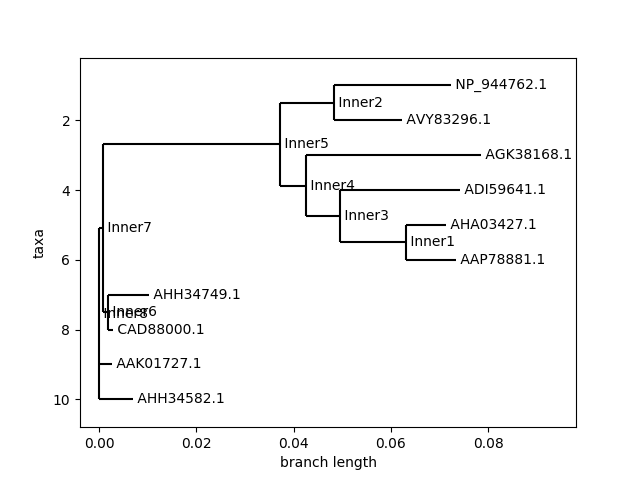
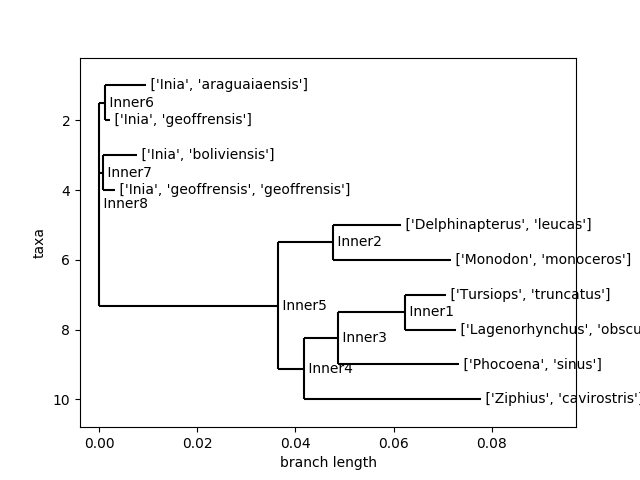
del trash 3

diff --git a/bioFunc.py b/bioFunc.py
@@ -2,12 +2,14 @@ from Bio.Seq import Seq
 from Bio import SeqIO#for tree
 from Bio import AlignIO
 from Bio.Align.Applications import MuscleCommandline
+from Bio.Align.Applications import ClustalwCommandline
 from Bio.Phylo.TreeConstruction import DistanceCalculator
 from Bio.Phylo.TreeConstruction import DistanceTreeConstructor
 import matplotlib
 matplotlib.use('Agg')
 from Bio import Phylo
 import pylab
+from os import path
 
 spec_list = ["IniaGeoffrensis","VicugnaVicugna","ToromysRhipidurus","OreotrochilusMelanogaster"]
 
@@ -56,19 +58,42 @@ def importar_homologos_P(spc_id,acc_key):
 		out_description.append(r.description)
 	return list(zip(out_accession,out_description))
 
-def generar_arbol(file, especie, indice):
-	path = './static/seq/Homologos/'
-	fasta_file = path + especie + '.fasta'
-	cli = MuscleCommandline(input=fasta_file,format=)
-	aln_file = path + especie + '.aln'
-	with open(aln_file, "r") as aln:
-		alineamiento = AlignIO.read(aln, "clustal")
+def generar_arbol(especie, indice):
+	tree_path = './static/img/bio/'+ especie + indice +'.png'
 
-	calculator = DistanceCalculator('blosum62')
-	dm = calculator.get_distance(alineamiento)
+	if not path.exists(tree_path):
+		seq_path = './static/seq/Homologos/'
+		fasta_file = seq_path + especie + str(indice) + '.fasta'
+		aln_file = seq_path + especie + str(indice) + '.aln'
 
-	constructor = DistanceTreeConstructor(calculator)
-	nj = constructor.nj(dm)	# Neighbor Joining
-	Phylo.draw(nj)
-	path = './static/img/bio/'+especie+ indice +'.png'
-	pylab.savefig(path, format='png')
+		# Ejecuta MUSCLE para el alineamiento de secuencias homologas
+		cli = MuscleCommandline(input=fasta_file, out=aln_file, clw=True)
+		#cli = ClustalwCommandline(infile=fasta_file,outfile=aln_file)
+		cli()
+
+		with open(aln_file, "r") as aln:
+			alineamiento = AlignIO.read(aln, "clustal")
+		
+		# Blosum62 para proteinas
+		calculator = DistanceCalculator('blosum62')
+		dm = calculator.get_distance(alineamiento)
+
+		constructor = DistanceTreeConstructor(calculator)
+		# Neighbor Joining
+		nj = constructor.nj(dm)
+		
+		Phylo.draw(nj, label_func=get_label)
+		pylab.savefig(tree_path, format='png')
+
+def get_label(leaf):
+	if "Inner" in leaf.name:
+		return leaf.name
+	else:
+		from Bio import Entrez
+		Entrez.email = "victoralegre@uni.pe"
+		handle = Entrez.efetch(db="protein",id=leaf.name, rettype="gp",retmode="text")
+		result=handle.read().split('\n')
+		for line in result:
+			if "ORGANISM" in line:
+				return line.split()[1:]
+		return leaf.name

diff --git a/app_run.py b/app_run.py
@@ -47,10 +47,8 @@ def arbol():
 		flash('ID: %s' %(form_t.tree_list.data))
 		espc_indice = int(form_t.specie_list.data)
 		indice = form_t.tree_list.data
-		path_arbol_num = './static/seq/Homologos/'+bf.spec_list[espc_indice-1]+indice
-		comando = 'clustalw '+ path_arbol_num  + '.fasta'
-		os.system(comando)
-		bf.generar_arbol(path_arbol_num + '.aln', bf.spec_list[espc_indice-1], indice)
+		# Se genera el arbol en .png
+		bf.generar_arbol(bf.spec_list[espc_indice-1], indice)
 		info = list(open('./static/seq/Informacion/'+indice+'.txt','r'))[1]	
 		return render_template('analisis_filogenetica.html', title='Arbol', form = form_t, especie = bf.spec_list[espc_indice-1], indice = indice, info=info)
 	return render_template('analisis_filogenetica.html', title='Arbol', form = form_t)
